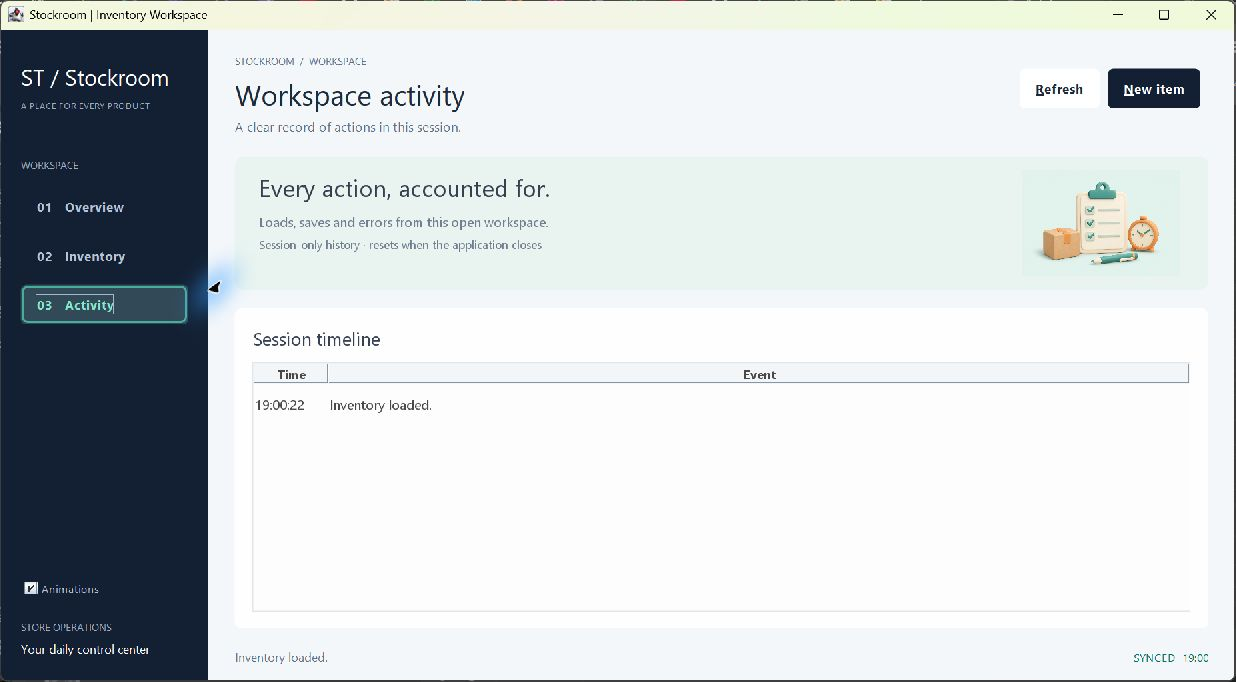
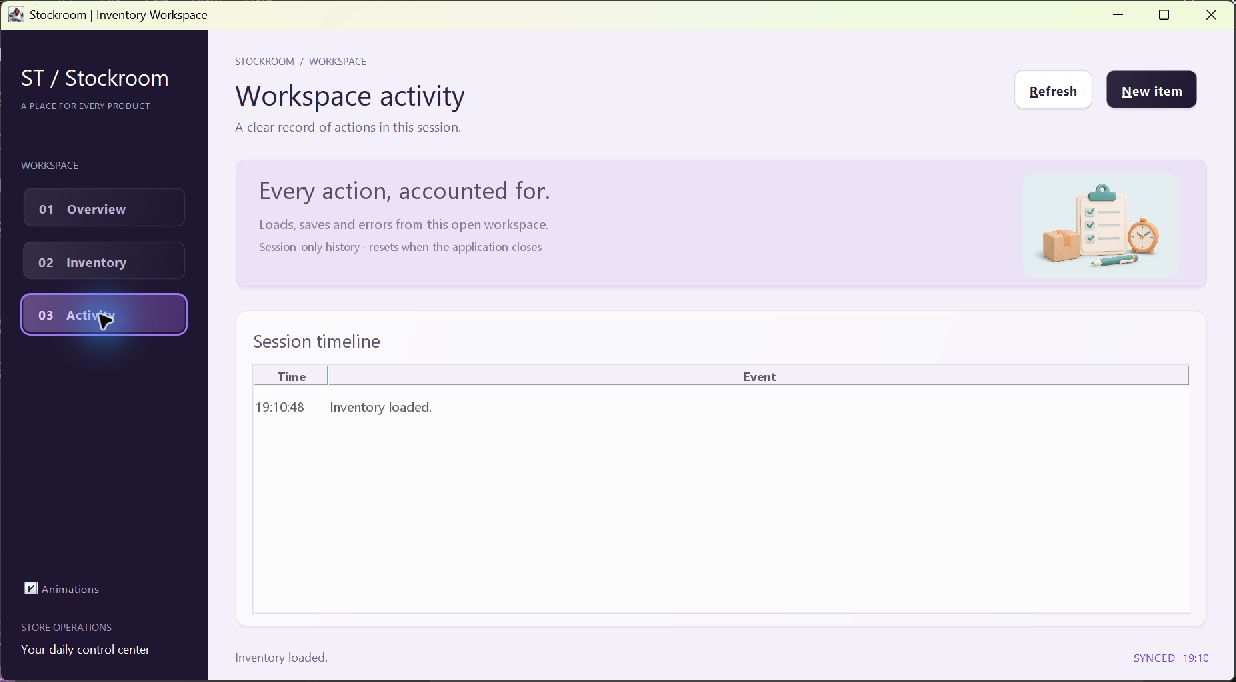
feat: add magnetic controls and violet-peach workspace styling

diff --git a/docs/javadoc/index.html b/docs/javadoc/index.html
@@ -1,7 +1,7 @@
 <!DOCTYPE HTML>
 <html lang="en">
 <head>
-<!-- Generated by javadoc (21) on Tue Nov 17 18:59:19 PKT 2026 -->
+<!-- Generated by javadoc (21) on Tue Nov 17 19:09:04 PKT 2026 -->
 <title>Generated Documentation (Untitled)</title>
 <meta name="viewport" content="width=device-width, initial-scale=1">
 <meta http-equiv="Content-Type" content="text/html; charset=UTF-8">

diff --git a/docs/javadoc/allclasses-index.html b/docs/javadoc/allclasses-index.html
@@ -1,7 +1,7 @@
 <!DOCTYPE HTML>
 <html lang="en">
 <head>
-<!-- Generated by javadoc (21) on Tue Nov 17 18:59:19 PKT 2026 -->
+<!-- Generated by javadoc (21) on Tue Nov 17 19:09:04 PKT 2026 -->
 <title>All Classes and Interfaces</title>
 <meta name="viewport" content="width=device-width, initial-scale=1">
 <meta http-equiv="Content-Type" content="text/html; charset=UTF-8">

diff --git a/docs/javadoc/inventory/package-tree.html b/docs/javadoc/inventory/package-tree.html
@@ -1,7 +1,7 @@
 <!DOCTYPE HTML>
 <html lang="en">
 <head>
-<!-- Generated by javadoc (21) on Tue Nov 17 18:59:19 PKT 2026 -->
+<!-- Generated by javadoc (21) on Tue Nov 17 19:09:04 PKT 2026 -->
 <title>inventory Class Hierarchy</title>
 <meta name="viewport" content="width=device-width, initial-scale=1">
 <meta http-equiv="Content-Type" content="text/html; charset=UTF-8">

diff --git a/docs/javadoc/inventory/InventoryRepository.html b/docs/javadoc/inventory/InventoryRepository.html
@@ -1,7 +1,7 @@
 <!DOCTYPE HTML>
 <html lang="en">
 <head>
-<!-- Generated by javadoc (21) on Tue Nov 17 18:59:19 PKT 2026 -->
+<!-- Generated by javadoc (21) on Tue Nov 17 19:09:04 PKT 2026 -->
 <title>InventoryRepository</title>
 <meta name="viewport" content="width=device-width, initial-scale=1">
 <meta http-equiv="Content-Type" content="text/html; charset=UTF-8">

diff --git a/docs/javadoc/overview-tree.html b/docs/javadoc/overview-tree.html
@@ -1,7 +1,7 @@
 <!DOCTYPE HTML>
 <html lang="en">
 <head>
-<!-- Generated by javadoc (21) on Tue Nov 17 18:59:19 PKT 2026 -->
+<!-- Generated by javadoc (21) on Tue Nov 17 19:09:04 PKT 2026 -->
 <title>Class Hierarchy</title>
 <meta name="viewport" content="width=device-width, initial-scale=1">
 <meta http-equiv="Content-Type" content="text/html; charset=UTF-8">

diff --git a/docs/javadoc/allpackages-index.html b/docs/javadoc/allpackages-index.html
@@ -1,7 +1,7 @@
 <!DOCTYPE HTML>
 <html lang="en">
 <head>
-<!-- Generated by javadoc (21) on Tue Nov 17 18:59:19 PKT 2026 -->
+<!-- Generated by javadoc (21) on Tue Nov 17 19:09:04 PKT 2026 -->
 <title>All Packages</title>
 <meta name="viewport" content="width=device-width, initial-scale=1">
 <meta http-equiv="Content-Type" content="text/html; charset=UTF-8">

diff --git a/docs/javadoc/inventory/InventoryApp.html b/docs/javadoc/inventory/InventoryApp.html
@@ -1,7 +1,7 @@
 <!DOCTYPE HTML>
 <html lang="en">
 <head>
-<!-- Generated by javadoc (21) on Tue Nov 17 18:59:19 PKT 2026 -->
+<!-- Generated by javadoc (21) on Tue Nov 17 19:09:04 PKT 2026 -->
 <title>InventoryApp</title>
 <meta name="viewport" content="width=device-width, initial-scale=1">
 <meta http-equiv="Content-Type" content="text/html; charset=UTF-8">

diff --git a/docs/javadoc/inventory/package-summary.html b/docs/javadoc/inventory/package-summary.html
@@ -1,7 +1,7 @@
 <!DOCTYPE HTML>
 <html lang="en">
 <head>
-<!-- Generated by javadoc (21) on Tue Nov 17 18:59:19 PKT 2026 -->
+<!-- Generated by javadoc (21) on Tue Nov 17 19:09:04 PKT 2026 -->
 <title>inventory</title>
 <meta name="viewport" content="width=device-width, initial-scale=1">
 <meta http-equiv="Content-Type" content="text/html; charset=UTF-8">

diff --git a/docs/javadoc/help-doc.html b/docs/javadoc/help-doc.html
@@ -1,7 +1,7 @@
 <!DOCTYPE HTML>
 <html lang="en">
 <head>
-<!-- Generated by javadoc (21) on Tue Nov 17 18:59:19 PKT 2026 -->
+<!-- Generated by javadoc (21) on Tue Nov 17 19:09:04 PKT 2026 -->
 <title>API Help</title>
 <meta name="viewport" content="width=device-width, initial-scale=1">
 <meta http-equiv="Content-Type" content="text/html; charset=UTF-8">

diff --git a/docs/javadoc/search.html b/docs/javadoc/search.html
@@ -1,7 +1,7 @@
 <!DOCTYPE HTML>
 <html lang="en">
 <head>
-<!-- Generated by javadoc (21) on Tue Nov 17 18:59:19 PKT 2026 -->
+<!-- Generated by javadoc (21) on Tue Nov 17 19:09:04 PKT 2026 -->
 <title>Search</title>
 <meta name="viewport" content="width=device-width, initial-scale=1">
 <meta http-equiv="Content-Type" content="text/html; charset=UTF-8">

diff --git a/docs/javadoc/index-all.html b/docs/javadoc/index-all.html
@@ -1,7 +1,7 @@
 <!DOCTYPE HTML>
 <html lang="en">
 <head>
-<!-- Generated by javadoc (21) on Tue Nov 17 18:59:19 PKT 2026 -->
+<!-- Generated by javadoc (21) on Tue Nov 17 19:09:04 PKT 2026 -->
 <title>Index</title>
 <meta name="viewport" content="width=device-width, initial-scale=1">
 <meta http-equiv="Content-Type" content="text/html; charset=UTF-8">

diff --git a/docs/javadoc/inventory/Item.html b/docs/javadoc/inventory/Item.html
@@ -1,7 +1,7 @@
 <!DOCTYPE HTML>
 <html lang="en">
 <head>
-<!-- Generated by javadoc (21) on Tue Nov 17 18:59:19 PKT 2026 -->
+<!-- Generated by javadoc (21) on Tue Nov 17 19:09:04 PKT 2026 -->
 <title>Item</title>
 <meta name="viewport" content="width=device-width, initial-scale=1">
 <meta http-equiv="Content-Type" content="text/html; charset=UTF-8">
